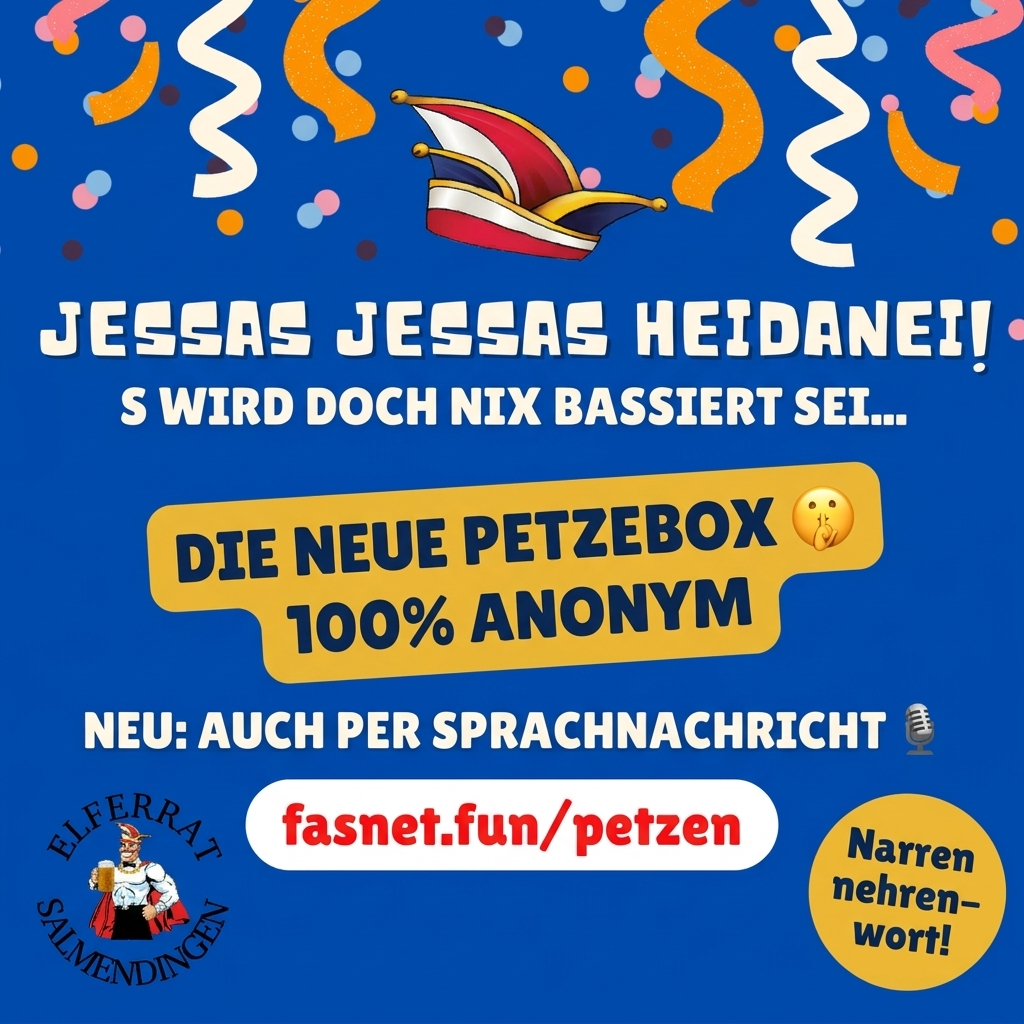
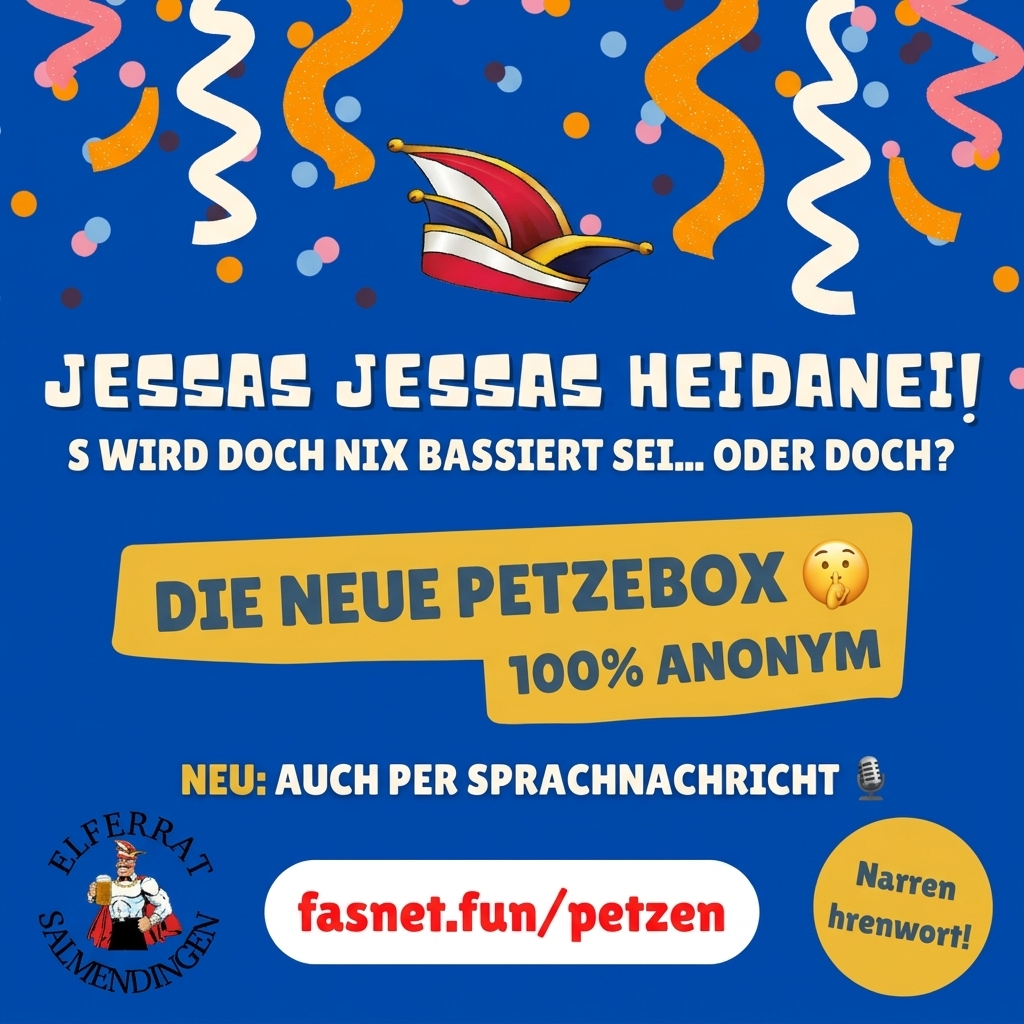
Update JPG flyers and templates with '... ODER DOCH?' and fasnet.fun/petzen link

diff --git a/flyer_editor.html b/flyer_editor.html
@@ -362,7 +362,7 @@
 
   <!-- Headline -->
   <text id="txt-headline-1" x="540" y="320" text-anchor="middle" class="font-fredoka" font-size="64" font-weight="800" fill="#ffffff" filter="url(#text-shadow)">JESSAS JESSAS HEIDANEI!</text>
-  <text id="txt-headline-2" x="540" y="380" text-anchor="middle" class="font-fredoka" font-size="36" font-weight="700" fill="#d5e4ff">S WIRD DOCH NIX BASSIERT SEI...</text>
+  <text id="txt-headline-2" x="540" y="380" text-anchor="middle" class="font-fredoka" font-size="34" font-weight="700" fill="#d5e4ff">S WIRD DOCH NIX BASSIERT SEI... ODER DOCH?</text>
 
   <!-- Center Badge -->
   <g transform="translate(540, 500) rotate(-1.5)">
@@ -439,7 +439,7 @@
 
   <!-- Headline -->
   <text id="txt-headline-1" x="540" y="520" text-anchor="middle" class="font-fredoka" font-size="76" font-weight="800" fill="#ffffff" filter="url(#text-shadow)">JESSAS JESSAS HEIDANEI!</text>
-  <text id="txt-headline-2" x="540" y="600" text-anchor="middle" class="font-fredoka" font-size="44" font-weight="700" fill="#d5e4ff">S WIRD DOCH NIX BASSIERT SEI...</text>
+  <text id="txt-headline-2" x="540" y="600" text-anchor="middle" class="font-fredoka" font-size="40" font-weight="700" fill="#d5e4ff">S WIRD DOCH NIX BASSIERT SEI... ODER DOCH?</text>
 
   <!-- Center Badge -->
   <g transform="translate(540, 800) rotate(-1.5)">
